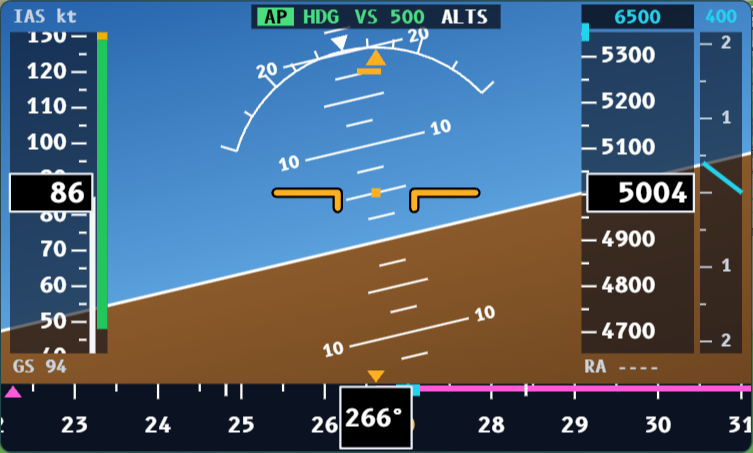
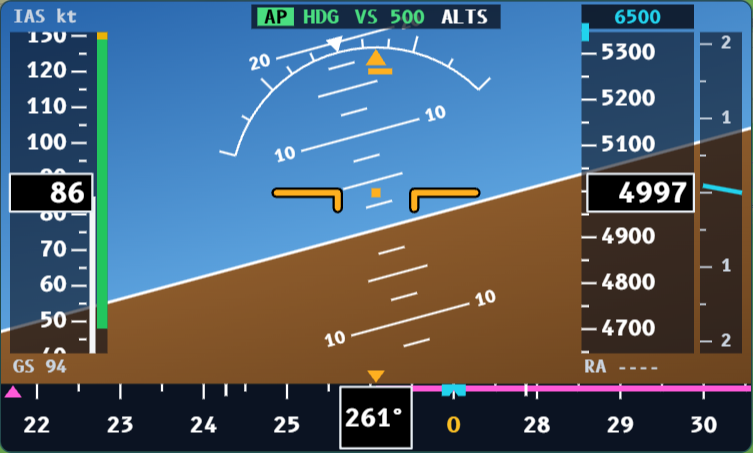
Autopilota: tasti dei modi cliccabili (AP, HDG/ROL, ALT, VS)
Nella scheda AP i modi si scelgono con i tasti, come sul pannello del
GFC 700, e il modo attivo è acceso in verde: AP inserisce o stacca, HDG
segue la prua scelta (premuto di nuovo passa a ROL, ali livellate), ALT
tiene la quota di adesso, VS sale o scende verso la quota scelta.
Cliccare un modo ad autopilota spento lo inserisce anche.
Manuali, README e immagini della scheda aggiornati.

diff --git a/js/autopilota.js b/js/autopilota.js
@@ -24,7 +24,9 @@ const diff=(a,b)=>((a-b+540)%360)-180;   // a - b fra -180 e 180
 SIM.creaAutopilota=function(A){
   const ap={
     attivo:false,
+    lat:'HDG',           // 'HDG' (segue la prua scelta) o 'ROL' (ali livellate)
     vert:'ALT',          // 'ALT' (tiene la quota) o 'VS' (sale/scende verso la quota scelta)
+    altTenuta:0,         // quota tenuta in ALT (ft)
     hdgSel:0,            // prua scelta (°)
     altSel:0,            // quota scelta (ft), multipli di 100
     vsSel:500,           // velocità verticale per salire o scendere (ft/min, sempre positiva)
@@ -47,7 +49,7 @@ SIM.creaAutopilota=function(A){
     if(st.aTerra||st.crashed) return L('L\'autopilota si inserisce solo in volo.','The autopilot can only be engaged in flight.');
     const m=misura(st);
     if(Math.abs(m.bank)>45||Math.abs(m.pitch)>25) return L('Prima rimetti l\'aereo più dritto: troppa inclinazione per l\'autopilota.','Level the aircraft first: too much bank or pitch for the autopilot.');
-    ap.attivo=true;ap.hdgSel=Math.round(m.hdg)%360;ap.altSel=Math.round(m.alt/100)*100;ap.vert='ALT';ap.limite='';
+    ap.attivo=true;ap.hdgSel=Math.round(m.hdg)%360;ap.altSel=Math.round(m.alt/100)*100;ap.altTenuta=ap.altSel;ap.vert='ALT';ap.lat='HDG';ap.limite='';
     tetaCmd=m.pitch;iPitch=clamp(elev0||0,-0.4,0.4);iAil=0;verso=0;   // parte dall'equilibratore attuale: niente strappi
     return '';
   }
@@ -59,6 +61,13 @@ SIM.creaAutopilota=function(A){
   }
   function cambiaPrua(dg){ap.hdgSel=Math.round(giro(ap.hdgSel+dg))%360;verso=Math.sign(dg);}
   function cambiaVs(dv){ap.vsSel=clamp(ap.vsSel+dv,100,1500);}
+  /* modi scelti col tasto (scheda AP), come sul GFC 700. Restituiscono un testo se il modo non si può scegliere */
+  function modoHdg(){ap.lat=ap.lat==='HDG'?'ROL':'HDG';verso=0;return '';}          // HDG <-> ali livellate
+  function modoAlt(st){ap.altTenuta=Math.round(misura(st).alt/10)*10;ap.vert='ALT';return '';}   // tiene la quota di adesso
+  function modoVs(st){
+    if(Math.abs(ap.altSel-misura(st).alt)<60) return L('Scegli prima una quota diversa da quella attuale (W/S o i pulsanti QUOTA).','First choose an altitude different from the current one (W/S or the ALT buttons).');
+    ap.vert='VS';return '';
+  }
   function pruaAttuale(st){ap.hdgSel=Math.round(misura(st).hdg)%360;verso=0;}
 
   /* comandi dell'autopilota per questo passo: {elev, ail}; null se si è staccato (motivo in ap.staccato) */
@@ -76,20 +85,20 @@ SIM.creaAutopilota=function(A){
     let errH=diff(ap.hdgSel,m.hdg);
     if(Math.abs(errH)>150&&verso)errH=verso*Math.abs(errH);   // virata grande: dalla parte in cui hai girato
     else if(Math.abs(errH)<5)verso=0;
-    const bankCmd=clamp(errH*1.2,-20,20);
+    const bankCmd=ap.lat==='ROL'?0:clamp(errH*1.2,-20,20);
     // con un piccolo integrale, che compensa la coppia dell'elica a tutta manetta e bassa velocità
     iAil=clamp(iAil+(bankCmd-m.bank)*0.003*dt,-0.12,0.12);
     const ail=clamp(0.035*(bankCmd-m.bank)-0.012*m.p+iAil,-0.35,0.35);
 
     /* ---- verticale: ALT o VS, poi assetto voluto ---- */
-    const errA=ap.altSel-m.alt;
+    const errA=(ap.vert==='VS'?ap.altSel:ap.altTenuta)-m.alt;
     let vsCmd;
     if(ap.vert==='VS'){
       vsCmd=Math.sign(errA)*ap.vsSel;
       // aggancio della quota (ALTS): poco prima di arrivarci, con un anticipo che cresce con la velocità verticale
-      if(Math.abs(errA)<Math.max(60,Math.abs(m.vs)*0.12)){ap.vert='ALT';}
+      if(Math.abs(errA)<Math.max(60,Math.abs(m.vs)*0.12)){ap.vert='ALT';ap.altTenuta=ap.altSel;}
     }
-    if(ap.vert==='ALT')vsCmd=clamp(errA*4,-Math.max(500,ap.vsSel),Math.max(500,ap.vsSel));
+    if(ap.vert==='ALT')vsCmd=clamp(((ap.altTenuta-m.alt))*4,-Math.max(500,ap.vsSel),Math.max(500,ap.vsSel));
     /* assetto voluto: varia con l'errore di velocità verticale (°/s). La manetta è del pilota, quindi c'è
        una protezione di velocità continua: fra "quanto alzare il muso per la VS" e "quanto per non scendere
        sotto vMin" si prende il più prudente (e lo stesso, al contrario, per non superare vMax) */
@@ -112,9 +121,9 @@ SIM.creaAutopilota=function(A){
   // riga di stato per il PFD (come la barra dei modi del G1000)
   function stato(){
     if(!ap.attivo) return null;
-    return {lat:'HDG',vert:ap.vert==='ALT'?'ALT':'VS',vsSel:ap.vsSel,altSel:ap.altSel,hdgSel:ap.hdgSel,limite:ap.limite,
+    return {lat:ap.lat,vert:ap.vert==='ALT'?'ALT':'VS',vsSel:ap.vsSel,altSel:ap.altSel,hdgSel:ap.hdgSel,limite:ap.limite,
       armato:ap.vert==='VS'?'ALTS':''};
   }
-  return Object.assign(ap,{inserisci,disinserisci,comanda,cambiaQuota,cambiaPrua,cambiaVs,pruaAttuale,stato,misura});
+  return Object.assign(ap,{inserisci,disinserisci,comanda,modoHdg,modoAlt,modoVs,cambiaQuota,cambiaPrua,cambiaVs,pruaAttuale,stato,misura});
 };
 })();

diff --git a/index.html b/index.html
@@ -105,11 +105,18 @@
     <div id="pianoCorpo" class="corpo"></div>
   </section>
   <section id="ap" class="hud apan scheda" role="tabpanel" aria-label="Autopilota" data-en-aria="Autopilot">
-    <div class="ap-testa"><button type="button" id="apBtn" class="ap-btn" title="Inserisce / stacca (Maiusc+A)" data-en-title="Engage / disconnect (Shift+A)">AP</button><span id="apStato" class="ap-stato"></span></div>
+    <!-- tasti dei modi, come sul GFC 700: verde = modo attivo -->
+    <div class="ap-modi">
+      <button type="button" id="apBtn" class="ap-btn" data-modo="ap" title="Inserisce / stacca l'autopilota (Maiusc+A)" data-en-title="Engage / disconnect the autopilot (Shift+A)">AP</button>
+      <button type="button" class="ap-btn" data-modo="hdg" title="HDG: segue la prua scelta; premuto di nuovo tiene le ali livellate (ROL)" data-en-title="HDG: follows the selected heading; press again for wings level (ROL)">HDG</button>
+      <button type="button" class="ap-btn" data-modo="alt" title="ALT: tiene la quota di adesso" data-en-title="ALT: holds the current altitude">ALT</button>
+      <button type="button" class="ap-btn" data-modo="vs" title="VS: sale o scende verso la quota scelta alla velocità verticale scelta" data-en-title="VS: climbs or descends to the selected altitude at the selected vertical speed">VS</button>
+    </div>
+    <div id="apStato" class="ap-stato"></div>
     <div class="ap-riga"><span class="lbl" data-en="HDG">PRUA</span><button type="button" data-ap="hdg:-10">−10</button><button type="button" data-ap="hdg:-1">−1</button><b id="apHdg" class="ap-val">---°</b><button type="button" data-ap="hdg:1">+1</button><button type="button" data-ap="hdg:10">+10</button><button type="button" data-ap="sync" title="Prua scelta = prua attuale (Maiusc+H)" data-en-title="Selected heading = current heading (Shift+H)" data-en="SYNC">ORA</button></div>
     <div class="ap-riga"><span class="lbl" data-en="ALT">QUOTA</span><button type="button" data-ap="alt:-1000">−1000</button><button type="button" data-ap="alt:-100">−100</button><b id="apAlt" class="ap-val">-----</b><button type="button" data-ap="alt:100">+100</button><button type="button" data-ap="alt:1000">+1000</button></div>
     <div class="ap-riga"><span class="lbl">VS</span><button type="button" data-ap="vs:-100">−100</button><b id="apVs" class="ap-val">500</b><button type="button" data-ap="vs:100">+100</button><span class="unit">ft/min</span></div>
-    <div class="dim ap-nota" data-en="Shift+A engages · A/D heading · W/S altitude · Shift+W/S vertical speed. The throttle is yours: the autopilot only protects the speed with the nose.">Maiusc+A inserisce · A/D prua · W/S quota · Maiusc+W/S velocità verticale. La manetta è tua: l'autopilota protegge la velocità solo col muso.</div>
+    <div class="dim ap-nota" data-en="Click a mode (with the autopilot off it also engages it) or Shift+A · A/D heading · W/S altitude · Shift+W/S vertical speed. The throttle is yours: the autopilot only protects the speed with the nose.">Clicca un modo (ad autopilota spento lo inserisce anche) o Maiusc+A · A/D prua · W/S quota · Maiusc+W/S velocità verticale. La manetta è tua: l'autopilota protegge la velocità solo col muso.</div>
   </section>
   <section id="missione" class="hud missione scheda" role="tabpanel" aria-label="Missione" data-en-aria="Mission">
     <div id="missioneCorpo" class="corpo"></div>

diff --git a/js/main.js b/js/main.js
@@ -372,8 +372,11 @@ $('esitoRiprova').addEventListener('click',()=>{$('esitoRiprova').blur();ricomin
 // scheda AP: pulsanti per chi usa il mouse
 function aggiornaSchedaAP(){
   const on=ap.attivo,s=ap.stato();
-  $('apBtn').classList.toggle('on',on);
-  $('apStato').innerHTML=on?`<b class="verde">HDG</b> · <b class="verde">${s.vert}</b>${s.armato?' · '+s.armato:''}${s.limite?' · <b class="ambra">'+(s.limite==='BASSA'?L('VEL. MINIMA','MIN SPEED'):L('VEL. MASSIMA','MAX SPEED'))+'</b>':''}`:L('spento','off');
+  const acceso={ap:on,hdg:on&&ap.lat==='HDG',alt:on&&ap.vert==='ALT',vs:on&&ap.vert==='VS'};
+  for(const b of document.querySelectorAll('[data-modo]'))b.classList.toggle('on',acceso[b.dataset.modo]);
+  $('apStato').innerHTML=on?(ap.lat==='ROL'?L('ali livellate (ROL)','wings level (ROL)'):L('prua','heading')+' '+String(ap.hdgSel).padStart(3,'0')+'°')+' · '+
+    (ap.vert==='ALT'?L('quota','altitude')+' '+ap.altTenuta+' ft':`VS ${ap.vsSel} → ${ap.altSel} ft`)+(s.armato?' · '+s.armato:'')+
+    (s.limite?' · <b class="ambra">'+(s.limite==='BASSA'?L('VEL. MINIMA','MIN SPEED'):L('VEL. MASSIMA','MAX SPEED'))+'</b>':''):L('Autopilota spento','Autopilot off');
   $('apHdg').textContent=String(ap.hdgSel).padStart(3,'0')+'°';
   $('apAlt').textContent=on||ap.altSel?ap.altSel+' ft':'-----';
   $('apVs').textContent=String(ap.vsSel);
@@ -384,7 +387,17 @@ for(const b of document.querySelectorAll('[data-ap]'))b.addEventListener('click'
   if(k==='hdg')ap.cambiaPrua(+v);else if(k==='alt')ap.cambiaQuota(+v);else if(k==='vs')ap.cambiaVs(+v);else if(k==='sync')ap.pruaAttuale(st);
   aggiornaSchedaAP();b.blur();
 });
-$('apBtn').addEventListener('click',()=>{if(avviato&&!inPausa&&!st.crashed)alternaAutopilota();$('apBtn').blur();});
+// tasti dei modi: AP inserisce/stacca; HDG, ALT e VS scelgono il modo (ad autopilota spento lo inseriscono anche)
+for(const b of document.querySelectorAll('[data-modo]'))b.addEventListener('click',()=>{
+  b.blur();
+  if(!avviato||inPausa||st.crashed) return;
+  const modo=b.dataset.modo;
+  if(modo==='ap'){alternaAutopilota();return;}
+  if(!ap.attivo){alternaAutopilota();if(!ap.attivo)return;if(modo==='hdg')return;}   // inserito: è già in HDG
+  const r=modo==='hdg'?ap.modoHdg():modo==='alt'?ap.modoAlt(st):ap.modoVs(st);
+  if(r)messaggio(r,3);
+  aggiornaSchedaAP();
+});
 function alternaAutopilota(){
   if(ap.attivo){staccaAP('');return;}
   const r=ap.inserisci(st,inp.elev);

diff --git a/istruzioni-en.html b/istruzioni-en.html
@@ -472,6 +472,13 @@ footer{margin-top:60px;color:var(--dim);font-size:14px}
 <!-- ================================================================ -->
 <h2 id="autopilota">13. Autopilot</h2>
 <p>Today's Cessna 172 with G1000 usually has the <b>Garmin GFC 700</b> autopilot; the simulator's one is a simple version of it. <b>Shift</b>+<kbd>A</kbd> (or the <b>AP</b> button in the AP tab) engages it: from then on it holds the <b>heading</b> and the <b>altitude</b> you had, rounded to 100 ft. It only engages in flight.</p>
+<p>The <b>AP</b> tab has the <b>mode keys</b>, as on the GFC 700 panel; the active mode is lit in green. Clicking a mode with the autopilot off also engages it:</p>
+<ul>
+  <li><b>AP</b>: engages or disconnects the autopilot;</li>
+  <li><b>HDG</b>: follows the selected heading; press it again for <b>ROL</b>, wings level (the aircraft flies straight wherever it is pointing);</li>
+  <li><b>ALT</b>: holds the current altitude;</li>
+  <li><b>VS</b>: climbs or descends to the selected altitude at the selected vertical speed (the selected altitude must differ from the current one).</li>
+</ul>
 <div class="affianca">
   <div>
     <p>With the autopilot engaged the stick keys no longer move the aircraft; they change the selected values:</p>
@@ -490,7 +497,7 @@ footer{margin-top:60px;color:var(--dim);font-size:14px}
   </div>
   <figure>
     <img src="istruzioni/en/ap-scheda.png" alt="AP tab: AP button on, HDG and VS modes, selected heading, altitude and vertical speed with buttons" loading="lazy">
-    <figcaption>The AP tab: the same controls with the mouse.</figcaption>
+    <figcaption>The AP tab: the mode keys (green = active) and the selected values.</figcaption>
   </figure>
 </div>
 <figure>

diff --git a/istruzioni.html b/istruzioni.html
@@ -472,6 +472,13 @@ footer{margin-top:60px;color:var(--dim);font-size:14px}
 <!-- ================================================================ -->
 <h2 id="autopilota">13. Autopilota</h2>
 <p>Il Cessna 172 con G1000 di oggi ha di solito l'autopilota <b>Garmin GFC 700</b>; quello del simulatore gli somiglia, in versione semplice. <b>Maiusc</b>+<kbd>A</kbd> (o il tasto <b>AP</b> nella scheda AP) lo inserisce: da quel momento tiene la <b>prua</b> e la <b>quota</b> che avevi, arrotondata ai 100 ft. Si inserisce solo in volo.</p>
+<p>Nella scheda <b>AP</b> ci sono i <b>tasti dei modi</b>, come sul pannello del GFC 700; il modo attivo è acceso in verde. Cliccare un modo ad autopilota spento lo inserisce anche:</p>
+<ul>
+  <li><b>AP</b>: inserisce o stacca l'autopilota;</li>
+  <li><b>HDG</b>: segue la prua scelta; premuto di nuovo passa a <b>ROL</b>, ali livellate (l'aereo va dritto dove si trova);</li>
+  <li><b>ALT</b>: tiene la quota di adesso;</li>
+  <li><b>VS</b>: sale o scende verso la quota scelta alla velocità verticale scelta (serve una quota scelta diversa da quella attuale).</li>
+</ul>
 <div class="affianca">
   <div>
     <p>Con l'autopilota inserito i tasti della cloche non muovono più l'aereo, ma cambiano i valori scelti:</p>
@@ -490,7 +497,7 @@ footer{margin-top:60px;color:var(--dim);font-size:14px}
   </div>
   <figure>
     <img src="istruzioni/ap-scheda.png" alt="Scheda AP: tasto AP acceso, modi HDG e VS, prua, quota e velocità verticale scelte con i pulsanti" loading="lazy">
-    <figcaption>La scheda AP: gli stessi comandi col mouse.</figcaption>
+    <figcaption>La scheda AP: i tasti dei modi (verde = attivo) e i valori scelti.</figcaption>
   </figure>
 </div>
 <figure>

diff --git a/css/stile.css b/css/stile.css
@@ -247,10 +247,10 @@ select:focus-visible{outline:2px solid var(--cyan);outline-offset:1px}
 .selscala{pointer-events:auto;color:var(--cyan);font-size:13px;padding:3px 4px;flex:1;min-width:0}
 /* scheda AP (autopilota) */
 .apan{padding:8px 10px;font-size:12px;display:grid;gap:7px}
-.ap-testa{display:flex;align-items:center;gap:10px}
-.ap-btn{padding:7px 14px;font:700 13px var(--f-num);letter-spacing:.1em}
+.ap-modi{display:grid;grid-template-columns:repeat(4,1fr);gap:5px}
+.ap-btn{padding:8px 0;font:700 13px var(--f-num);letter-spacing:.1em}
 .ap-btn.on{background:#4ade80;border-color:#4ade80;color:#06210f}
-.ap-stato{font:700 12px var(--f-num);color:var(--dim)}
+.ap-stato{font:700 11.5px var(--f-num);color:#4ade80;min-height:1.3em}
 .verde{color:#4ade80}
 .ap-riga{display:flex;align-items:center;gap:4px}
 .ap-riga .lbl{min-width:4.6em}

diff --git a/README.md b/README.md
@@ -187,8 +187,8 @@ the current heading (HDG) and altitude (ALT). With it engaged, A/D change the se
 selected altitude: it then climbs or descends at the chosen vertical speed (VS, default 500 ft/min) and
 captures the new altitude by itself. The throttle stays with the pilot; if the speed gets too low the
 autopilot lowers the nose (MIN SPD). It also moves the trim, and it disconnects (with a tone) if you take
-the stick, in a stall or with extreme attitudes. The mode bar is at the top of the PFD; the AP tab has the
-same controls for the mouse.
+the stick, in a stall or with extreme attitudes. The mode bar is at the top of the PFD; the AP tab has clickable
+mode keys (AP, HDG / ROL wings level, ALT, VS) and buttons for the selected values.
 
 <p align="center">
   <img src="istruzioni/en/ap-pfd.png" alt="PFD with the autopilot climbing: mode bar, selected altitude and heading bug" width="70%">
@@ -690,7 +690,8 @@ la prua (HDG) e la quota (ALT) attuali. Inserito, A/D cambiano la prua scelta e 
 sale o scende alla velocità verticale scelta (VS, di serie 500 ft/min) e aggancia da solo la nuova quota.
 La manetta resta al pilota; se la velocità scende troppo l'autopilota abbassa il muso (VEL MIN). Muove anche
 il trim e si stacca (con un segnale acustico) se prendi la cloche, in stallo o con assetti estremi. La barra
-dei modi è in alto nel PFD; la scheda AP ha gli stessi comandi per il mouse.
+dei modi è in alto nel PFD; la scheda AP ha i tasti dei modi cliccabili (AP, HDG / ROL ali livellate, ALT, VS)
+e i pulsanti per i valori scelti.
 
 <p align="center">
   <img src="istruzioni/ap-pfd.png" alt="PFD con l'autopilota in salita: barra dei modi, quota scelta e prua scelta" width="70%">
